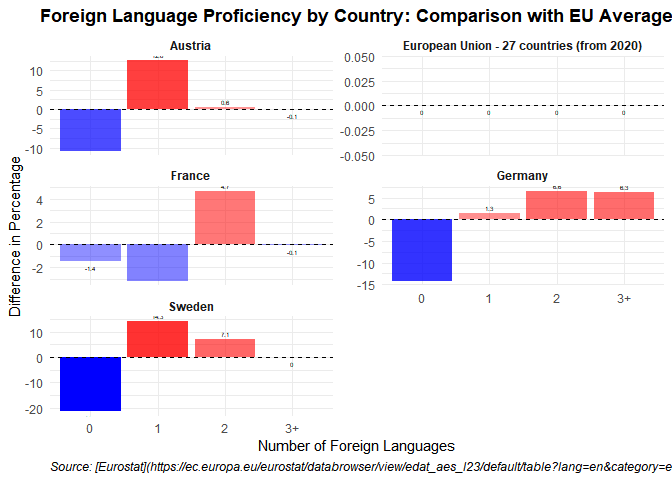
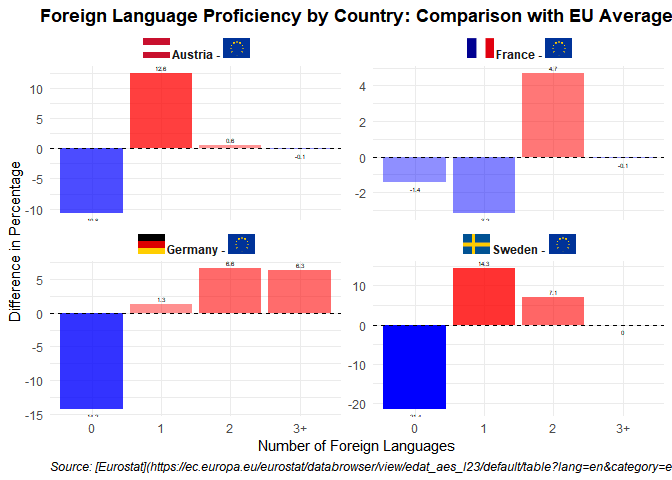
Add flag images and edit some grammar errors

diff --git a/Projects/Selena-qian/SunKyoung-Moon_Silin.md b/Projects/Selena-qian/SunKyoung-Moon_Silin.md
@@ -1,4 +1,44 @@
 # Introduction
 
-This report analyzes foreign language proficiency by country, comparing
-it with the EU average.
+The report analyzes foreign language proficiency across selected
+European countries (Germany, France, Sweden, and Austria) and compares
+their performance to the EU average. The primary goal is to evaluate
+differences in proficiency levels by the number of foreign languages
+known among adults aged 18 to 69.
+
+# Analysis
+
+The dataset is filtered to include data from 2022 for the relevant
+countries and age group. Key steps include below
+
+1.  Renaming and reorganizing columns for clarity.
+
+2.  Calculating the difference between each country’s proficiency
+    percentage and the EU average for the same category (number of
+    foreign languages known).
+
+3.  Grouping data by country and number of languages for summary
+    statistics, particularly focusing on the mean differences from the
+    EU average.
+
+The results are visualized using a bar chart, where red and blue
+indicate whether a country’s proficiency level is above or below the EU
+average.
+
+# My Challenge
+
+One of the main challenges was incorporating country flags and the EU
+flag into the facet labels for enhanced visual clarity.
+
+This was achieved using the ggtext library, which supports HTML
+rendering in ggplot facet labels. Flags were added as <img> tags in the
+facet labels, with specific sizes and alignments. The
+element\_markdown() function in theme() allowed rendering these HTML
+elements correctly.
+
+# Result
+
+The final plot effectively illustrates the proficiency levels of each
+country compared to the EU average, with flags for each country and the
+EU flag enhancing the visualization. You can see my code and Result
+image below
